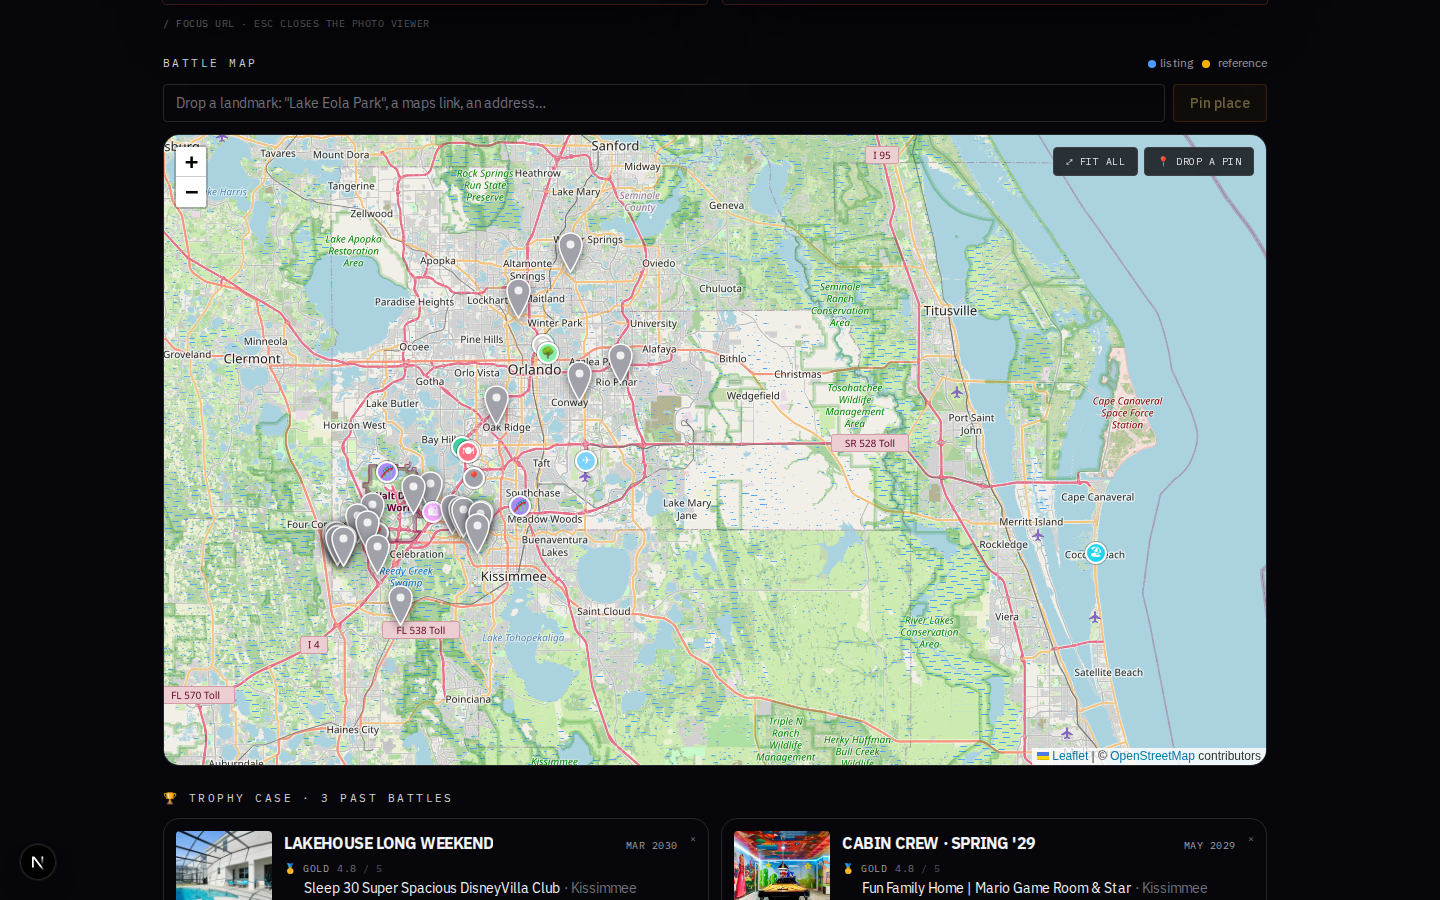
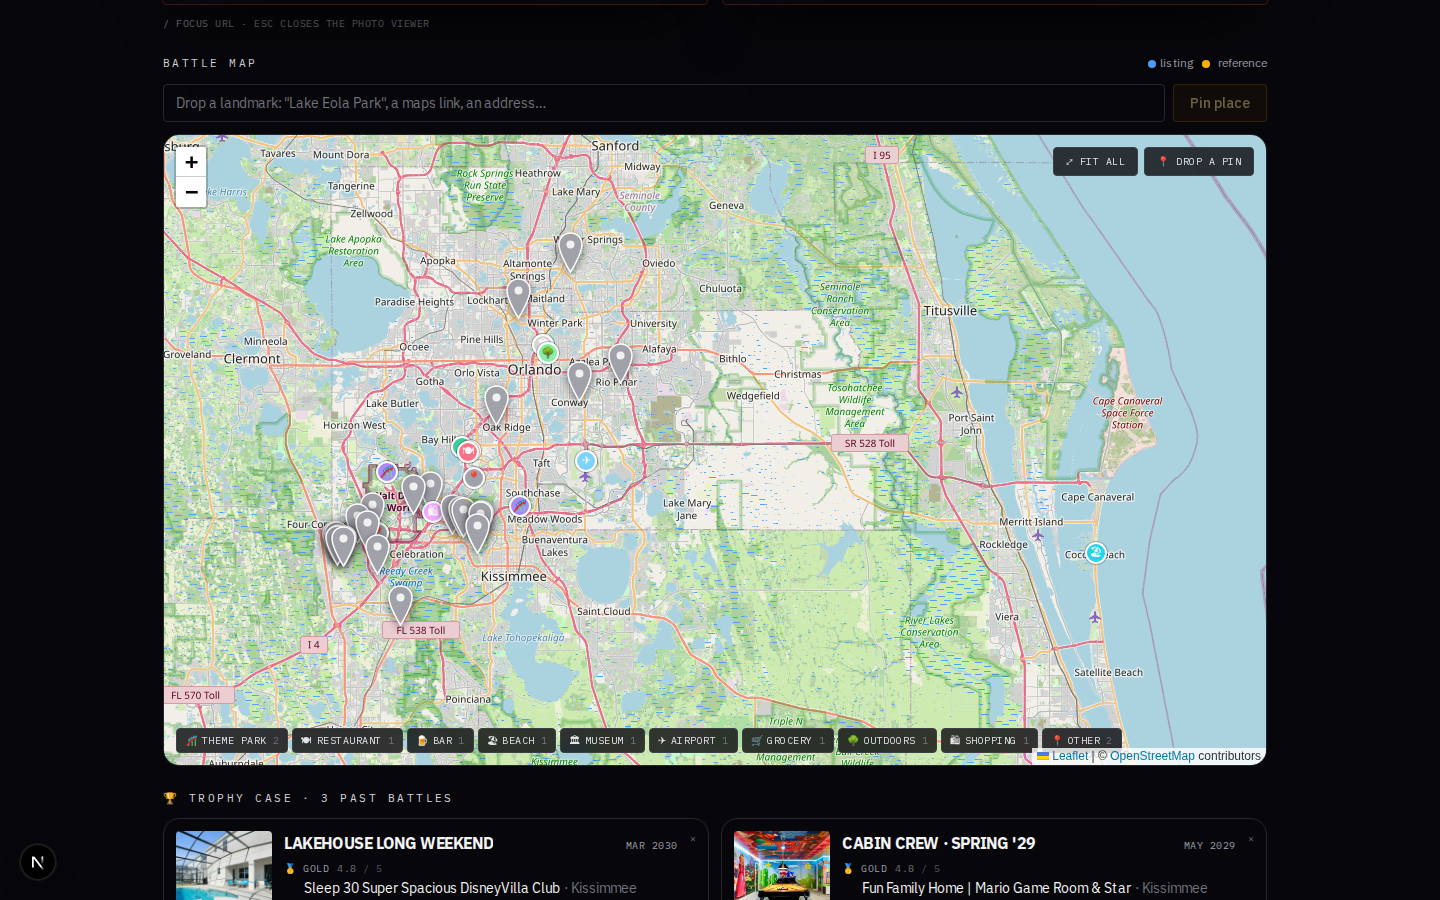
Map filter chips: hide/show place categories
Floating chip row at the bottom-left of the map, rendered per-category
for categories that have ≥1 pin (so a map with three categories doesn't
show ten irrelevant toggles). Click toggles visibility — hidden chips
get a line-through + dimmed style. State persists to localStorage under
`sb-map-hidden-kinds` so a reload preserves the filter.

`allPoints` (which drives the initial fit-to-bounds + the "fit all"
button) uses the filtered set, so hidden categories don't influence the
zoom — hide all the airports and the map refits around the rest.

Regenerated docs/screenshots/map.png to show the chip row in the
marketing site.

Changed region(s): [[0.125, 0.8089, 0.7812, 0.84]]

diff --git a/src/components/MapView.tsx b/src/components/MapView.tsx
@@ -211,6 +211,35 @@ export default function MapView({
   const [pendingUrl, setPendingUrl] = useState("");
   const [pendingKind, setPendingKind] = useState<PlaceCategoryId>("other");
   const [isAddingPlace, startAddPlace] = useTransition();
+  // Category filter for reference pins. Categories in this set are
+  // hidden on the map; categories absent are visible. Persisted to
+  // localStorage so the filter survives reloads.
+  const [hiddenKinds, setHiddenKinds] = useState<Set<PlaceCategoryId>>(
+    () => new Set(),
+  );
+  useEffect(() => {
+    try {
+      const raw = window.localStorage.getItem("sb-map-hidden-kinds");
+      if (raw) {
+        const arr = JSON.parse(raw);
+        if (Array.isArray(arr)) setHiddenKinds(new Set(arr as PlaceCategoryId[]));
+      }
+    } catch {} // SSR or quota — fine, defaults to "show all"
+  }, []);
+  const toggleKind = (id: PlaceCategoryId) => {
+    setHiddenKinds((prev) => {
+      const next = new Set(prev);
+      if (next.has(id)) next.delete(id);
+      else next.add(id);
+      try {
+        window.localStorage.setItem(
+          "sb-map-hidden-kinds",
+          JSON.stringify(Array.from(next)),
+        );
+      } catch {}
+      return next;
+    });
+  };
   // Imperative handle so the "fit all" button can refit on demand without
   // triggering automatic refits via useEffect dependencies.
   const refitRef = useRef<(() => void) | null>(null);
@@ -262,12 +291,31 @@ export default function MapView({
     [listings],
   );
 
+  // Count places per category — only categories with ≥1 pin become filter
+  // chips, so the row doesn't show all 10 categories when only 3 are used.
+  const placeCounts = useMemo(() => {
+    const counts = new Map<PlaceCategoryId, number>();
+    for (const p of places) {
+      const id = resolvePlaceCategory(p.kind).id;
+      counts.set(id, (counts.get(id) ?? 0) + 1);
+    }
+    return counts;
+  }, [places]);
+
+  const visiblePlaces = useMemo(
+    () =>
+      places.filter(
+        (p) => !hiddenKinds.has(resolvePlaceCategory(p.kind).id),
+      ),
+    [places, hiddenKinds],
+  );
+
   const allPoints = useMemo<[number, number][]>(
     () => [
       ...placedListings.map((l) => [l.latitude, l.longitude] as [number, number]),
-      ...places.map((p) => [p.latitude, p.longitude] as [number, number]),
+      ...visiblePlaces.map((p) => [p.latitude, p.longitude] as [number, number]),
     ],
-    [placedListings, places],
+    [placedListings, visiblePlaces],
   );
 
   const initialCenter = useRef<[number, number]>([20, 0]);
@@ -312,6 +360,36 @@ export default function MapView({
           {dropPinMode ? "❌ cancel" : "📍 drop a pin"}
         </button>
       </div>
+      {/* Category filter row — bottom-left of the map. Only categories
+          with at least one pin become chips, so a map with just theme
+          parks and a grocery doesn't show eight irrelevant toggles.
+          Toggling persists to localStorage via toggleKind(). */}
+      {placeCounts.size > 0 && (
+        <div className="absolute bottom-3 left-3 z-[1000] flex max-w-[calc(100%-1.5rem)] flex-wrap gap-1">
+          {PLACE_CATEGORIES.filter((c) => (placeCounts.get(c.id) ?? 0) > 0).map((c) => {
+            const count = placeCounts.get(c.id) ?? 0;
+            const hidden = hiddenKinds.has(c.id);
+            return (
+              <button
+                key={c.id}
+                type="button"
+                onClick={() => toggleKind(c.id)}
+                aria-pressed={!hidden}
+                title={hidden ? `Show ${c.label.toLowerCase()} pins` : `Hide ${c.label.toLowerCase()} pins`}
+                className={`inline-flex items-center gap-1 rounded-sm border px-2 py-1 font-mono text-[10px] uppercase tracking-wider backdrop-blur transition ${
+                  hidden
+                    ? "border-zinc-800 bg-zinc-950/60 text-zinc-600 line-through decoration-zinc-600"
+                    : "border-zinc-700 bg-zinc-950/80 text-zinc-200 hover:border-zinc-500"
+                }`}
+              >
+                <span aria-hidden="true">{c.emoji}</span>
+                <span>{c.label}</span>
+                <span className="ml-0.5 text-zinc-500">{count}</span>
+              </button>
+            );
+          })}
+        </div>
+      )}
       <MapContainer
         center={initialCenter.current}
         zoom={2}
@@ -524,7 +602,7 @@ export default function MapView({
           );
         })}
 
-        {places.map((p) => (
+        {visiblePlaces.map((p) => (
           <Marker
             key={p.id}
             position={[p.latitude, p.longitude]}

diff --git a/TODO.md b/TODO.md
@@ -114,7 +114,10 @@ a real "argument-settler" layer.
 - **Per-listing distance summary** — for each booking candidate, show "8min
   to SeaWorld · 25min to Epcot · 3min to closest grocery." Straight-line
   distance is fine for v1; OSRM / Valhalla routing for v2 if anyone cares.
-- **Map filter chips** — toggle categories on/off. Depends on categorize.
+- ~~**Map filter chips**~~ — **DONE.** Bottom-left of the map, a chip
+  per category that has ≥1 pin (so a 3-category map doesn't show 10
+  chips). Tap to hide that category; line-through + dimmed text signals
+  the hidden state. Persists to `localStorage` under `sb-map-hidden-kinds`.
 - ~~**No scraping at all**~~ — **DONE / by-design.** Drop-pin is pure
   user input; no Nominatim call required for placement.
 - **Light dedup** — if two people drop a pin within ~50m of the same name,
